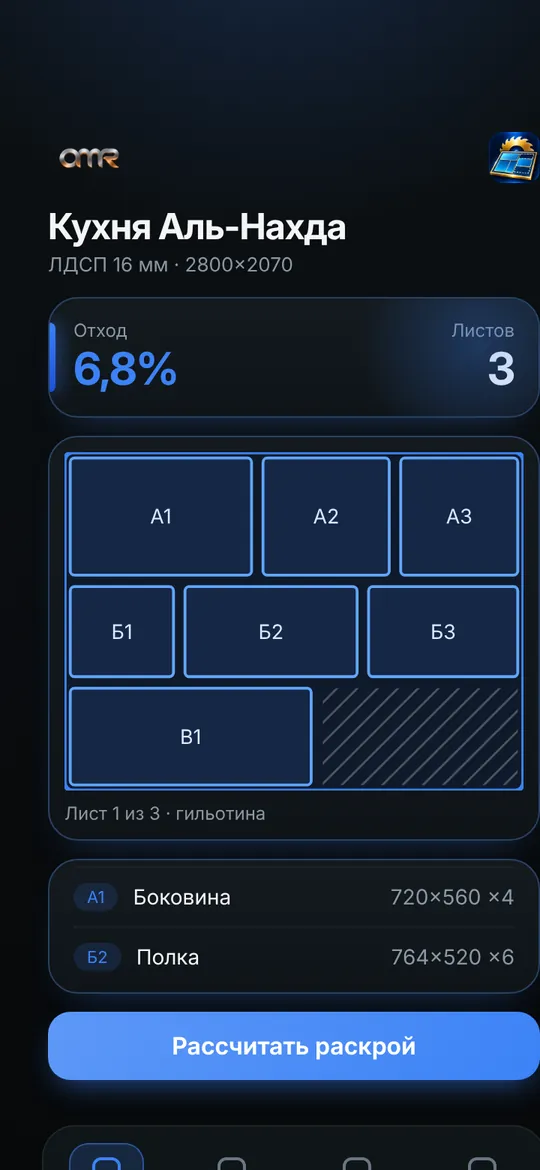
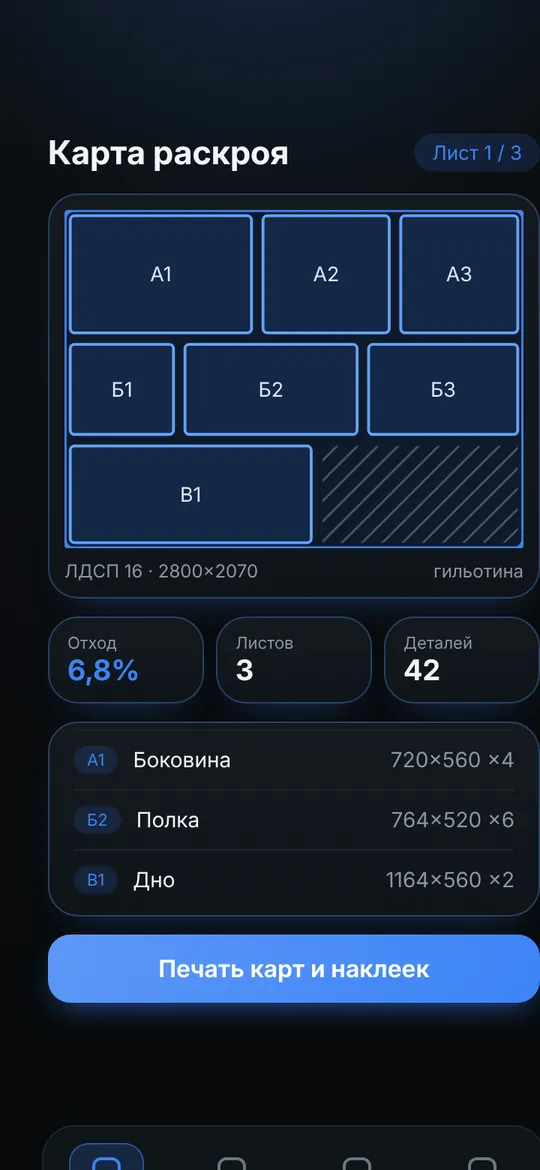
Главная: блок AMR ID; экраны показывают функции (финансы, карта раскроя)
Claude-Session: https://claude.ai/code/session_01DUC25L6TuRRD8wTQnEHGp3

diff --git a/src/site.css b/src/site.css
@@ -240,3 +240,17 @@ section{padding:32px 0}
   .h-grid{grid-template-columns:1fr}.pc .shot{height:220px}.h-soon{grid-template-columns:1fr}
   .h-band{flex-direction:column;align-items:flex-start;padding:22px}}
 @media(prefers-reduced-motion:reduce){.eco .ln,.scr img,.h-tabs span{animation:none}.scr img:first-child{opacity:1}}
+.h-id{background:radial-gradient(ellipse at 75% 50%,rgba(242,138,50,.12),transparent 55%);border-bottom:1px solid var(--line)}
+.h-id-in{display:grid;grid-template-columns:1.2fr .8fr;gap:40px;align-items:center}
+.h-id h2{font-size:clamp(28px,3.6vw,44px);line-height:1.1;letter-spacing:-.03em;margin:12px 0 10px;color:#F2F4F7}
+.kick-s:before{display:none}.kick-s{color:var(--cu)}
+.h-id-sub{color:#C4CCD4;font-size:17px;margin:0 0 26px;max-width:560px}
+.h-id-list{list-style:none;margin:0 0 30px;padding:0;display:grid;grid-template-columns:1fr 1fr;gap:20px 24px}
+.h-id-list li{display:flex;gap:14px;align-items:flex-start}
+.h-id-list svg{width:40px;height:40px;flex:none;color:var(--cu);padding:8px;border-radius:12px;background:rgba(242,138,50,.1);box-shadow:inset 0 0 0 1px rgba(242,138,50,.35)}
+.h-id-list b{display:block;color:#F2F4F7;font-size:15.5px;margin-bottom:3px}.h-id-list p{margin:0;color:var(--text2);font-size:14px;line-height:1.5}
+.h-id-ph{display:grid;place-items:center}
+.phn-s{position:relative;inset:auto;bottom:auto;width:270px}
+.phn-s .scr img.on{opacity:1;animation:none}
+@media(max-width:860px){.h-id-in{grid-template-columns:1fr}.h-id-list{grid-template-columns:1fr}.phn-s{width:230px}}
+@media(max-width:680px){.phn-s{width:230px;border-radius:36px;padding:9px}.phn-s .scr{border-radius:28px}}
